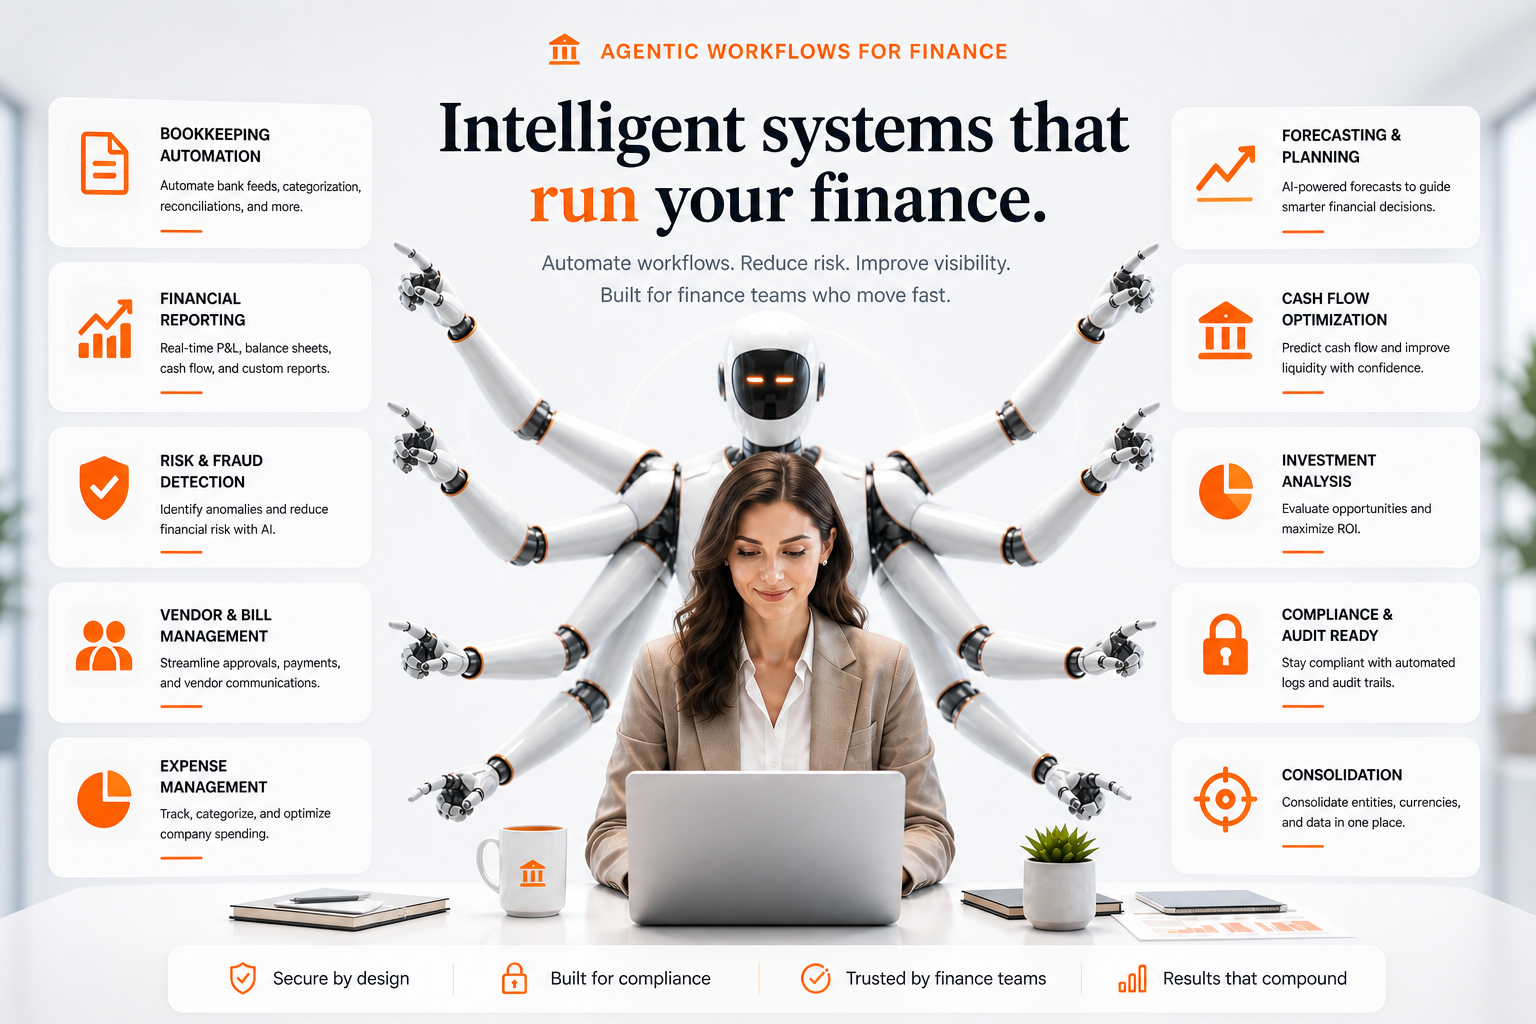
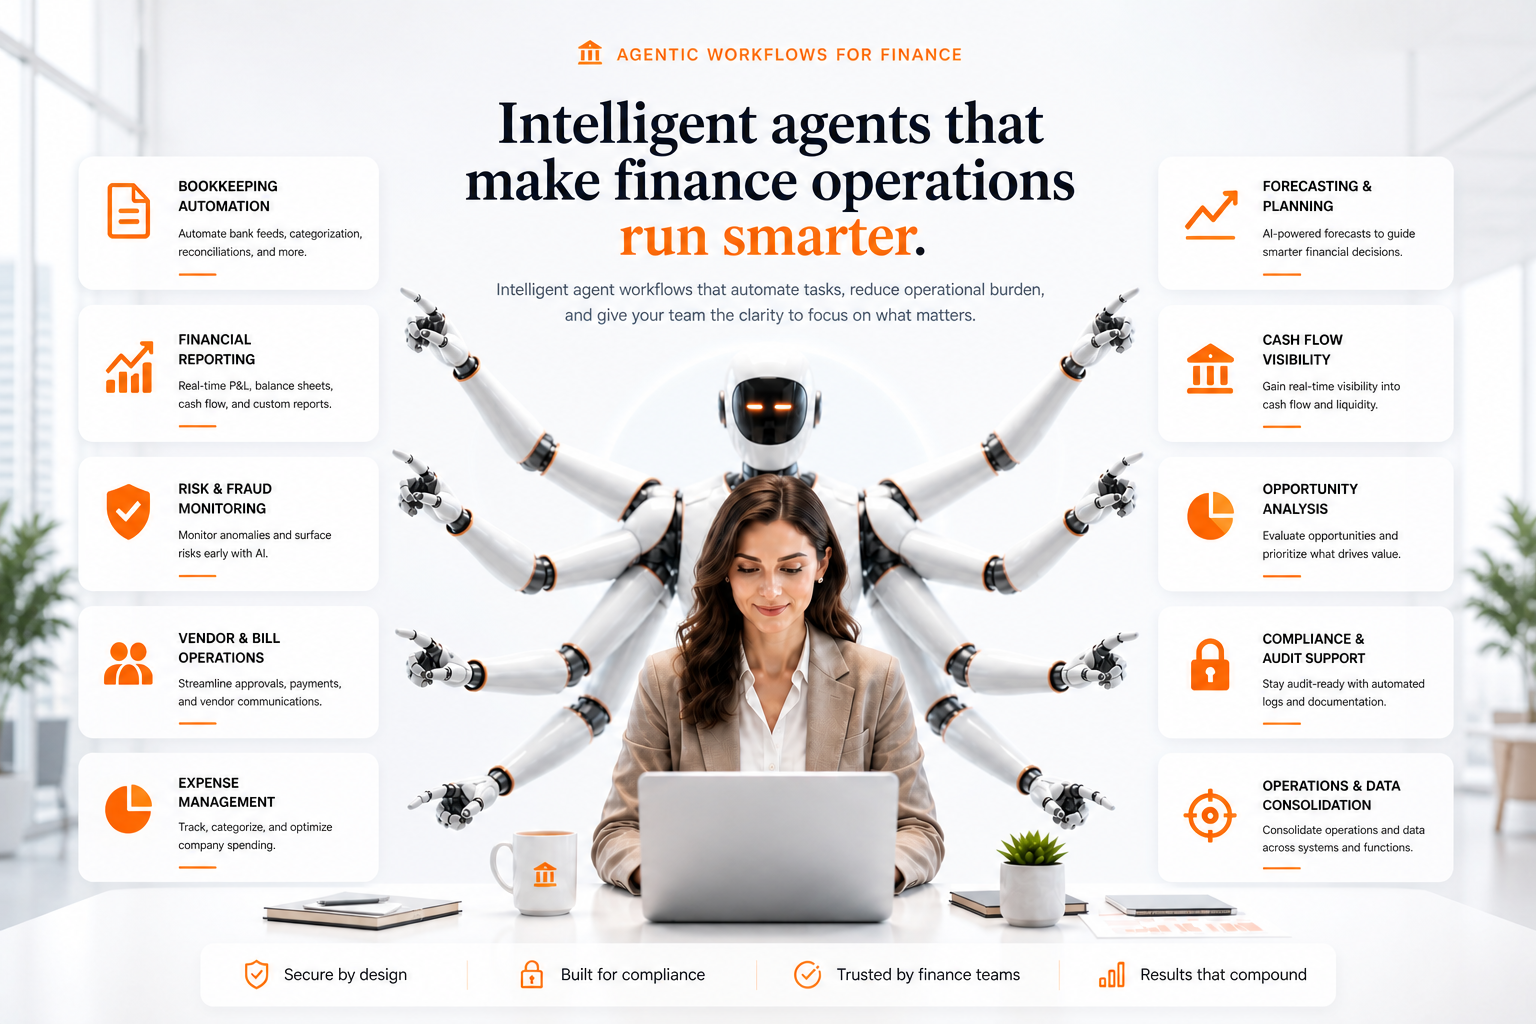
cc

diff --git a/services.html b/services.html
@@ -36,6 +36,18 @@
             object-fit: contain;
         }
 
+        @media (max-width: 768px) {
+            .image-hero {
+                overflow: hidden;
+            }
+            .image-hero img {
+                width: 233.33%;
+                max-width: 233.33%;
+                margin-left: -66.67%;
+                object-fit: unset;
+            }
+        }
+
         /* ── Intro section ── */
         .intro-section {
             background: #fef9f0;
@@ -363,6 +375,18 @@
             font-size: 0.875rem;
             color: #555;
             line-height: 1.6;
+        }
+
+        @media (max-width: 860px) {
+            .use-case-grid { grid-template-columns: 1fr 1fr; gap: 16px; }
+            .uc-card { padding: 22px 18px; }
+            .uc-icon { font-size: 1.3rem; margin-bottom: 10px; }
+            .uc-card h3 { font-size: 0.9rem; }
+            .uc-card p { font-size: 0.82rem; }
+        }
+        @media (max-width: 480px) {
+            .use-case-grid { grid-template-columns: 1fr; gap: 12px; }
+            .uc-card { padding: 18px 16px; }
         }
 
         /* ── Testimonial ── */
@@ -813,7 +837,7 @@
 
     <!-- Image Hero -->
     <div class="image-hero">
-        <img src="HERO.png" alt="We build AI systems that run your business">
+        <img src="HERO.png" alt="Intelligent agent support for financial operations">
     </div>
 
     <!-- What We Do -->
@@ -821,9 +845,9 @@
         <div class="container">
             <div class="intro-split">
                 <div class="intro-split-text">
-                    <span class="eyebrow">AI Automation for Financial Services</span>
-                    <h2>Your Back-Office Runs Itself.<br>Your Team Focuses on What Matters.</h2>
-                    <p>We build custom AI agents for financial firms: hedge funds, private equity, family offices, and asset managers. The operational overhead slowing your team down, regulatory inquiries, tax notices, reporting, compliance workflows, we automate it end-to-end.</p>
+                    <span class="eyebrow">Intelligent Agent Support for Financial Services</span>
+                    <h2>Intelligent Agents Built to Make<br>Finance Operations Easier.</h2>
+                    <p>We build custom AI agents that support financial firms: hedge funds, private equity, family offices, and asset managers. The operational overhead slowing your team down, regulatory inquiries, tax notices, reporting, compliance workflows, we automate it so your team can focus on higher-value work.</p>
                     <p>Production-quality. Deployed fast. No bloated retainers.</p>
                 </div>
                 <div class="intro-split-img">
@@ -1028,7 +1052,7 @@
                     <div class="system-io-sublabel">Operational Friction</div>
                     <div class="system-io-items">
                         <div class="system-io-item"><i class="fas fa-envelope"></i><span>Tax Notices &amp; Regulatory Inquiries</span></div>
-                        <div class="system-io-item"><i class="fas fa-file-lines"></i><span>Manual Reporting &amp; Data Consolidation</span></div>
+                        <div class="system-io-item"><i class="fas fa-file-lines"></i><span>Operational Reporting &amp; Data Management</span></div>
                         <div class="system-io-item"><i class="fas fa-shield-halved"></i><span>Compliance &amp; Due Diligence Workflows</span></div>
                         <div class="system-io-item"><i class="fas fa-folder"></i><span>Investor &amp; Fund Communications</span></div>
                         <div class="system-io-item"><i class="fas fa-gear"></i><span>Other Repetitive Back-Office Tasks</span></div>
@@ -1157,8 +1181,8 @@
                     <h3>Colton Fidelman</h3>
                     <p class="team-role">Engineering & Build</p>
                     <ul class="team-creds">
-                        <li>UCLA Student</li>
-                        <li>Founder, Meridian Prospects</li>
+                        <li>UCLA Cognitive Science Student</li>
+                        <li>Founder, Meridian</li>
                         <li>Multi-agent systems & full-stack AI</li>
                         <li>Lead Engineer, Agentized Services</li>
                     </ul>